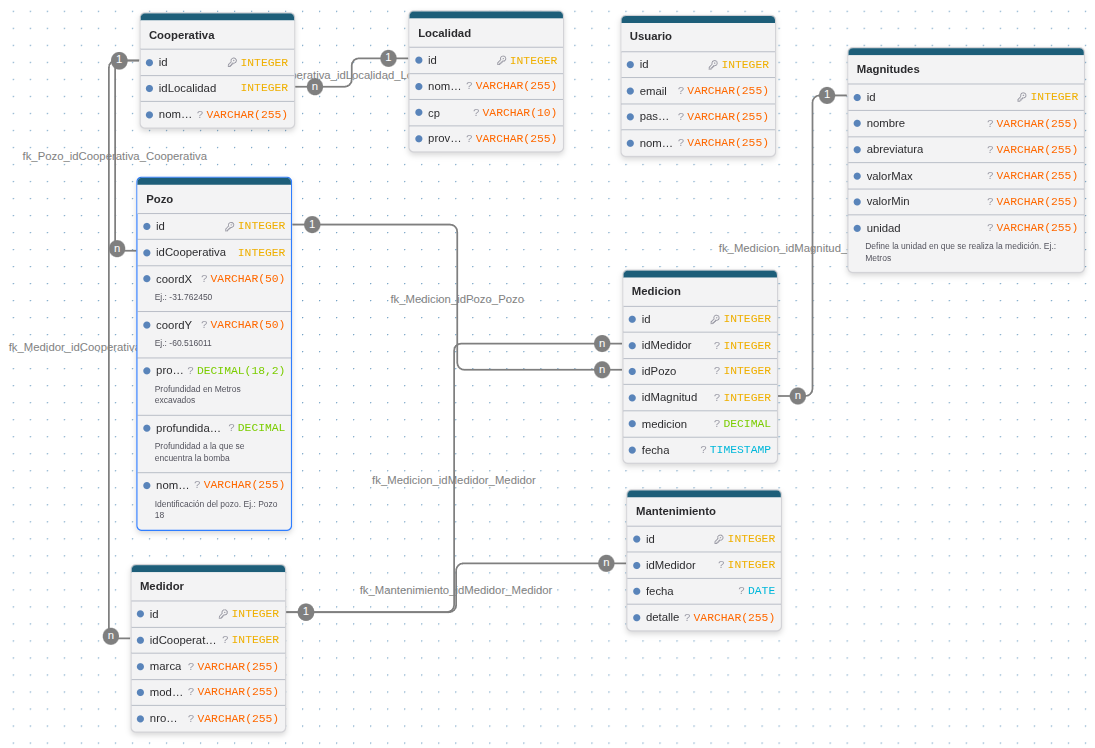
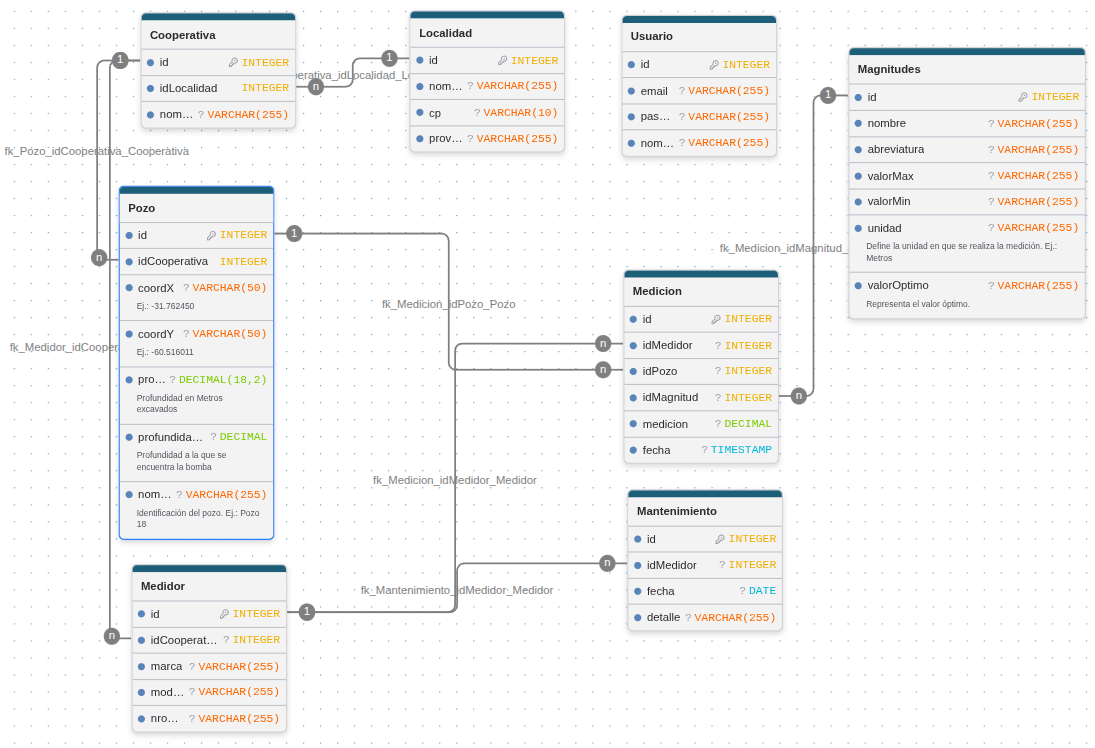
Magnitudes:: añadido valor óptimo

diff --git a/components/common/traffic-light-gauge.tsx b/components/common/traffic-light-gauge.tsx
@@ -12,6 +12,7 @@ interface TrafficLightGaugeProps {
   valorMedido: number;
   valorMin: number;
   valorMax: number;
+  valorOptimo?: number;
 }
 
 export function TrafficLightGauge({
@@ -21,24 +22,39 @@ export function TrafficLightGauge({
   valorMedido,
   valorMin,
   valorMax,
+  valorOptimo,
 }: TrafficLightGaugeProps) {
   const min = Number(valorMin);
   const max = Number(valorMax);
   const val = Number(valorMedido);
 
   const rangeSpan = max - min;
-  const midPoint = (min + max) / 2;
+  const targetOptimo =
+    valorOptimo !== undefined && !isNaN(Number(valorOptimo))
+      ? Number(valorOptimo)
+      : (min + max) / 2;
 
   // Porcentaje relativo en la barra [0, 100]
-  let percentage = rangeSpan > 0 ? ((val - min) / rangeSpan) * 100 : 50;
+  const percentage = rangeSpan > 0 ? ((val - min) / rangeSpan) * 100 : 50;
   const clampedPercentage = Math.max(0, Math.min(100, percentage));
 
-  // Distancia normalizada al centro (0 = exactamente al medio, 1 = en los bordes, > 1 = fuera)
-  const halfSpan = rangeSpan > 0 ? rangeSpan / 2 : 1;
-  const distanceFromMid = Math.abs(val - midPoint);
-  const normalizedDistance = distanceFromMid / halfSpan;
+  // Posición del valor óptimo en la barra
+  const optimoPercentage = rangeSpan > 0 ? ((targetOptimo - min) / rangeSpan) * 100 : 50;
+  const clampedOptimoPercentage = Math.max(0, Math.min(100, optimoPercentage));
 
-  // Semáforo: Rojo en los extremos -> Amarillo intermedio -> Verde en el centro
+  // Distancia normalizada al valor óptimo (0 = en valor óptimo, 1 = en los límites min/max, > 1 = fuera de límite)
+  let normalizedDistance = 0;
+  if (val < targetOptimo) {
+    const lowerSpan = targetOptimo - min;
+    normalizedDistance = lowerSpan > 0 ? (targetOptimo - val) / lowerSpan : (targetOptimo === val ? 0 : 1);
+  } else if (val > targetOptimo) {
+    const upperSpan = max - targetOptimo;
+    normalizedDistance = upperSpan > 0 ? (val - targetOptimo) / upperSpan : (targetOptimo === val ? 0 : 1);
+  } else {
+    normalizedDistance = 0;
+  }
+
+  // Semáforo: Rojo en los extremos -> Amarillo intermedio -> Verde en el valor óptimo
   let status: 'optimo' | 'advertencia' | 'critico' = 'critico';
   let badgeColor = 'bg-rose-500/10 text-rose-600 border-rose-500/30 dark:text-rose-400';
   let textColor = 'text-rose-600 dark:text-rose-400';
@@ -48,22 +64,22 @@ export function TrafficLightGauge({
     status = 'critico';
     statusText = val < min ? 'Por debajo del mínimo' : 'Excede valor máximo';
   } else if (normalizedDistance <= 0.35) {
-    // Al medio del rango
     status = 'optimo';
     badgeColor = 'bg-emerald-500/10 text-emerald-600 border-emerald-500/30 dark:text-emerald-400';
     textColor = 'text-emerald-600 dark:text-emerald-400';
-    statusText = 'Óptimo (Centrado)';
+    statusText = 'Óptimo';
   } else if (normalizedDistance <= 0.8) {
-    // Rango intermedio
     status = 'advertencia';
     badgeColor = 'bg-amber-500/10 text-amber-600 border-amber-500/30 dark:text-amber-400';
     textColor = 'text-amber-600 dark:text-amber-400';
     statusText = 'Aceptable / Atención';
   } else {
-    // Cercano a los bordes
     status = 'critico';
     statusText = 'Límite de tolerancia';
   }
+
+  const leftAmberStop = Math.max(5, clampedOptimoPercentage * 0.5).toFixed(1);
+  const rightAmberStop = Math.min(95, clampedOptimoPercentage + (100 - clampedOptimoPercentage) * 0.5).toFixed(1);
 
   return (
     <Card className="overflow-hidden border transition-all hover:shadow-xs">
@@ -90,15 +106,15 @@ export function TrafficLightGauge({
           <span className="text-xs font-semibold text-muted-foreground">{unidad}</span>
         </div>
 
-        {/* Barra de semáforo (Rojo - Amarillo - Verde - Amarillo - Rojo) */}
+        {/* Barra de semáforo con gradiente adaptado al valor óptimo */}
         <div className="space-y-1.5">
           <div className="relative h-3 w-full rounded-full overflow-hidden bg-muted shadow-inner flex">
-            {/* Gradiente tricolor: Extremo Rojo -> Centro Verde -> Extremo Rojo */}
             <div
               className="h-full w-full"
               style={{
-                background:
-                  'linear-gradient(to right, #ef4444 0%, #f59e0b 25%, #10b981 50%, #f59e0b 75%, #ef4444 100%)',
+                background: `linear-gradient(to right, #ef4444 0%, #f59e0b ${leftAmberStop}%, #10b981 ${clampedOptimoPercentage.toFixed(
+                  1
+                )}%, #f59e0b ${rightAmberStop}%, #ef4444 100%)`,
               }}
             />
           </div>
@@ -108,15 +124,18 @@ export function TrafficLightGauge({
             <div
               className="absolute -top-1 -translate-x-1/2 flex flex-col items-center"
               style={{ left: `${clampedPercentage}%` }}
+              title={`Valor medido: ${val} ${unidad}`}
             >
               <div className="w-0 h-0 border-x-4 border-x-transparent border-b-6 border-b-foreground" />
             </div>
           </div>
 
-          {/* Rango Min, Mid y Max */}
+          {/* Rango Min, Óptimo y Max */}
           <div className="flex justify-between text-[10px] text-muted-foreground font-mono pt-1">
             <span>Min: {min}</span>
-            <span className="font-semibold text-emerald-600">Centro: {midPoint.toFixed(1)}</span>
+            <span className="font-semibold text-emerald-600">
+              Óptimo: {Number.isInteger(targetOptimo) ? targetOptimo : targetOptimo.toFixed(2)}
+            </span>
             <span>Max: {max}</span>
           </div>
         </div>

diff --git a/actions/magnitudes.ts b/actions/magnitudes.ts
@@ -22,11 +22,12 @@ export async function createMagnitud(data: Omit<Magnitud, 'id'>): Promise<{ succ
       valorMax: String(data.valorMax),
       valorMin: String(data.valorMin),
       unidad: data.unidad,
+      valorOptimo: data.valorOptimo !== undefined && data.valorOptimo !== null ? String(data.valorOptimo) : '',
     };
 
     const res = await pool.query(
-      'INSERT INTO "Magnitudes" ("nombre", "abreviatura", "valorMax", "valorMin", "unidad") VALUES ($1, $2, $3, $4, $5) RETURNING *',
-      [payload.nombre, payload.abreviatura, payload.valorMax, payload.valorMin, payload.unidad]
+      'INSERT INTO "Magnitudes" ("nombre", "abreviatura", "valorMax", "valorMin", "unidad", "valorOptimo") VALUES ($1, $2, $3, $4, $5, $6) RETURNING *',
+      [payload.nombre, payload.abreviatura, payload.valorMax, payload.valorMin, payload.unidad, payload.valorOptimo]
     );
 
     revalidatePath('/magnitudes');
@@ -45,11 +46,12 @@ export async function updateMagnitud(id: number, data: Omit<Magnitud, 'id'>): Pr
       valorMax: String(data.valorMax),
       valorMin: String(data.valorMin),
       unidad: data.unidad,
+      valorOptimo: data.valorOptimo !== undefined && data.valorOptimo !== null ? String(data.valorOptimo) : '',
     };
 
     const res = await pool.query(
-      'UPDATE "Magnitudes" SET "nombre" = $1, "abreviatura" = $2, "valorMax" = $3, "valorMin" = $4, "unidad" = $5 WHERE "id" = $6 RETURNING *',
-      [payload.nombre, payload.abreviatura, payload.valorMax, payload.valorMin, payload.unidad, id]
+      'UPDATE "Magnitudes" SET "nombre" = $1, "abreviatura" = $2, "valorMax" = $3, "valorMin" = $4, "unidad" = $5, "valorOptimo" = $6 WHERE "id" = $7 RETURNING *',
+      [payload.nombre, payload.abreviatura, payload.valorMax, payload.valorMin, payload.unidad, payload.valorOptimo, id]
     );
 
     revalidatePath('/magnitudes');

diff --git a/app/mediciones/[id]/page.tsx b/app/mediciones/[id]/page.tsx
@@ -76,10 +76,19 @@ export default function ReporteMedicionPage() {
     const min = v.valorMin;
     const max = v.valorMax;
     const val = v.valorMedido;
-    const range = max - min;
-    const mid = (min + max) / 2;
-    const half = range > 0 ? range / 2 : 1;
-    const dist = Math.abs(val - mid) / half;
+    const optimo =
+      v.valorOptimo !== undefined && !isNaN(Number(v.valorOptimo))
+        ? Number(v.valorOptimo)
+        : (min + max) / 2;
+
+    let dist = 0;
+    if (val < optimo) {
+      const lowerSpan = optimo - min;
+      dist = lowerSpan > 0 ? (optimo - val) / lowerSpan : (optimo === val ? 0 : 1);
+    } else if (val > optimo) {
+      const upperSpan = max - optimo;
+      dist = upperSpan > 0 ? (val - optimo) / upperSpan : (optimo === val ? 0 : 1);
+    }
 
     if (val < min || val > max || dist > 0.8) {
       criticosCount++;
@@ -219,7 +228,7 @@ export default function ReporteMedicionPage() {
           <div className="flex items-center gap-3 text-[11px]">
             <span className="flex items-center gap-1">
               <span className="size-2 rounded-full bg-emerald-500" />
-              <span>Verde: Cercano al centro óptimo</span>
+              <span>Verde: Cercano al valor óptimo</span>
             </span>
             <span className="flex items-center gap-1">
               <span className="size-2 rounded-full bg-amber-500" />
@@ -243,6 +252,7 @@ export default function ReporteMedicionPage() {
               valorMedido={v.valorMedido}
               valorMin={v.valorMin}
               valorMax={v.valorMax}
+              valorOptimo={v.valorOptimo}
             />
           ))}
         </div>

diff --git a/app/magnitudes/page.tsx b/app/magnitudes/page.tsx
@@ -44,6 +44,13 @@ export default function MagnitudesPage() {
       ),
     },
     { key: 'valorMin', label: 'Valor Mínimo', className: 'font-mono' },
+    {
+      key: 'valorOptimo',
+      label: 'Valor Óptimo',
+      className: 'font-mono text-emerald-600 font-semibold',
+      render: (val) =>
+        val ? <span>{val}</span> : <span className="text-muted-foreground italic text-xs">N/D</span>,
+    },
     { key: 'valorMax', label: 'Valor Máximo', className: 'font-mono' },
   ];
 
@@ -74,6 +81,13 @@ export default function MagnitudesPage() {
       label: 'Valor Mínimo',
       type: 'text',
       placeholder: 'Ej. 6.5',
+      required: true,
+    },
+    {
+      key: 'valorOptimo',
+      label: 'Valor Óptimo',
+      type: 'text',
+      placeholder: 'Ej. 7.0',
       required: true,
     },
     {
@@ -111,6 +125,7 @@ export default function MagnitudesPage() {
         abreviatura: formValues.abreviatura,
         valorMax: String(formValues.valorMax),
         valorMin: String(formValues.valorMin),
+        valorOptimo: String(formValues.valorOptimo || ''),
         unidad: formValues.unidad,
       });
       if (!res.success) throw new Error(res.error);
@@ -120,6 +135,7 @@ export default function MagnitudesPage() {
         abreviatura: formValues.abreviatura,
         valorMax: String(formValues.valorMax),
         valorMin: String(formValues.valorMin),
+        valorOptimo: String(formValues.valorOptimo || ''),
         unidad: formValues.unidad,
       });
       if (!res.success) throw new Error(res.error);

diff --git a/actions/medicion.ts b/actions/medicion.ts
@@ -61,7 +61,7 @@ export async function getMedicionReport(idMedicion: number): Promise<MedicionRep
     // Traer todas las mediciones de la misma fecha, pozo y medidor
     const resGroup = await pool.query(
       `SELECT m.*, mag.nombre as "magnitudNombre", mag.abreviatura as "magnitudAbreviatura",
-              mag.unidad as "magnitudUnidad", mag."valorMin", mag."valorMax"
+              mag.unidad as "magnitudUnidad", mag."valorMin", mag."valorMax", mag."valorOptimo"
        FROM "Medicion" m
        LEFT JOIN "Magnitudes" mag ON m."idMagnitud" = mag."id"
        WHERE m."idPozo" = $1 AND m."idMedidor" = $2 AND m."fecha" = $3
@@ -111,6 +111,10 @@ export async function getMedicionReport(idMedicion: number): Promise<MedicionRep
         valorMedido: Number(item.medicion),
         valorMin: parseFloat(item.valorMin) || 0,
         valorMax: parseFloat(item.valorMax) || 100,
+        valorOptimo:
+          item.valorOptimo !== null && item.valorOptimo !== undefined && item.valorOptimo !== ''
+            ? parseFloat(item.valorOptimo)
+            : undefined,
       })),
     };
   } catch (error: any) {

diff --git a/lib/db.ts b/lib/db.ts
@@ -68,6 +68,7 @@ export async function initDatabaseSchema() {
     CREATE TABLE IF NOT EXISTS "Pozo" (
       "id" INTEGER NOT NULL GENERATED BY DEFAULT AS IDENTITY,
       "idCooperativa" INTEGER NOT NULL,
+      "nombre" VARCHAR(255),
       "coordX" VARCHAR(50),
       "coordY" VARCHAR(50),
       "profundidadPozo" DECIMAL(18,2),
@@ -99,6 +100,7 @@ export async function initDatabaseSchema() {
       "valorMax" VARCHAR(255),
       "valorMin" VARCHAR(255),
       "unidad" VARCHAR(255),
+      "valorOptimo" VARCHAR(255),
       PRIMARY KEY("id")
     );
 

diff --git a/types/database.ts b/types/database.ts
@@ -53,6 +53,7 @@ export interface Magnitud {
   valorMax: string;
   valorMin: string;
   unidad: string;
+  valorOptimo?: string;
 }
 
 export interface Medicion {
@@ -68,6 +69,7 @@ export interface Medicion {
   magnitudUnidad?: string;
   valorMin?: string;
   valorMax?: string;
+  valorOptimo?: string;
   medidorInfo?: string;
   pozoInfo?: string;
 }
@@ -114,6 +116,7 @@ export interface MedicionReportData {
     valorMedido: number;
     valorMin: number;
     valorMax: number;
+    valorOptimo?: number;
   }[];
 }
 

diff --git a/app/page.tsx b/app/page.tsx
@@ -186,7 +186,9 @@ export default function MedicionesPrincipalPage() {
       label: mag.nombre,
       type: 'number',
       unit: mag.unidad,
-      placeholder: `Rango: ${mag.valorMin} a ${mag.valorMax}`,
+      placeholder: mag.valorOptimo
+        ? `Rango: ${mag.valorMin} a ${mag.valorMax} (Óptimo: ${mag.valorOptimo})`
+        : `Rango: ${mag.valorMin} a ${mag.valorMax}`,
       required: true,
     })),
   ];
